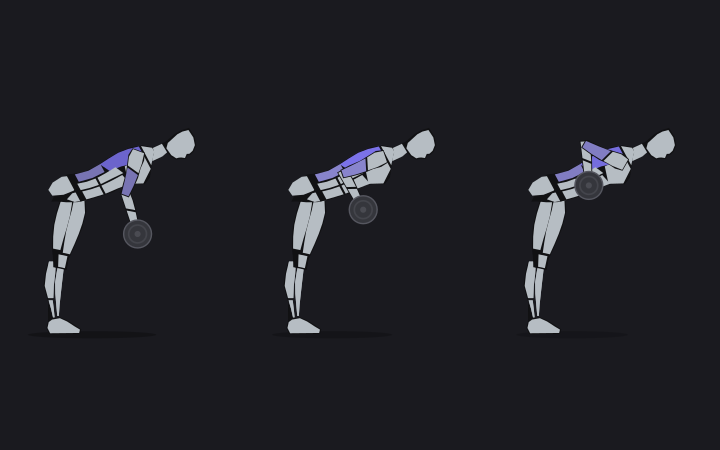
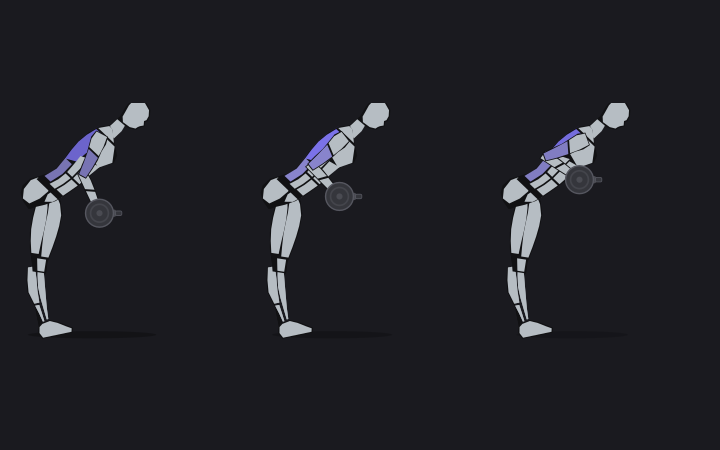
feat(body-demos): Prompt 9b — Phase A gate + pose physics + barbell ends
GATE (Phase A): found and fixed the regression that failed D1 — an
earlier contour-trim text edit matched TWICE and amputated the glute
tail from the pelvis silhouette. Restored with stronger projection
(~9 units behind the lumbar line, under-crease), plus lumbar curve and
chest carry. Master passes D1-D5 next to the front view (gate sheet:
docs/visual-audit/side-rig/master-vs-front.png). Front view untouched.

Pose physics, encoded as rules:
- hipsBack(): the balance rule — hips travel back ~0.4x the shoulders'
  forward travel (whole standing chain leans about the planted ankle).
  Applied to every standing hinge; pinned by tests.
- RDL: knees constant 15deg in every frame (the RDL signature), arms
  hang plumb so the plate tracks the legs, hips counter backward.
- Row: torso locked 55deg, knees 20deg, bar path a straight vertical
  line below the shoulder — below-knee to lower ribs, elbow driving
  past the torso line at the top.
- Bench: lockout vertically above the shoulder pivot (bar path leans
  head-ward on the way up); pad extended beyond the crown.
- Plate ends get a collar + protruding bar stub (barbell, not a disc).

Highlights were already facet-tints (not stickers) and RDL already maps
hamstrings+glutes primary. 23 rig tests including executable acceptance
checks (rigid segments, pinned plates, locked camera, balance, constant
knee angle). Contact sheets regenerated in docs/visual-audit/side-rig/.
[…]

Changed region(s): [[0.0306, 0.2178, 0.275, 0.7467], [0.3667, 0.2178, 0.6111, 0.7467], [0.7028, 0.2178, 0.9472, 0.7467]]

diff --git a/src/lib/bodyRig.ts b/src/lib/bodyRig.ts
@@ -100,6 +100,17 @@ const SIDE_FORE_LEN = Math.hypot(
   SIDE_ANCHORS.hand[1] - SIDE_ANCHORS.elbow[1]
 );
 
+/** Balance rule (pose physics): mass stays over mid-foot, so as the
+ *  torso hinges forward the hips travel BACK — implemented as the whole
+ *  standing chain leaning back about the planted ankle, hips countering
+ *  ~0.4× the shoulders' forward travel. Every standing hinge appends
+ *  this op to every group. */
+function hipsBack(hingeDeg: number): Extract<Op, { kind: "rotate" }> {
+  const fwd = Math.sin((hingeDeg * Math.PI) / 180) * 55.5; // shoulder travel
+  const lean = (Math.asin(Math.min(0.4 * fwd, 30) / 93) * 180) / Math.PI;
+  return { kind: "rotate", deg: -lean, pivot: SIDE_ANCHORS.ankle };
+}
+
 /* Push-up scene constants (final space): where the hands plant and
  * where the tilted plank's toes rest. */
 const PUSHUP_HAND: Pt = [100, 156];
@@ -803,7 +814,7 @@ export const BODY_DEMOS: Record<string, BodyDemo> = {
        * bar path. */
       const G: Op = { kind: "rotate", deg: -90, pivot: [44, 100] };
       const S = SIDE_ANCHORS.shoulder;
-      const H: Pt = [S[0] + lerp(24, 50, e), S[1] + lerp(18, 6, e)];
+      const H: Pt = [S[0] + lerp(24, 50, e), S[1] + lerp(18, 0, e)];
       const arm = aimArm(
         { S, E: SIDE_ANCHORS.elbow, H: SIDE_ANCHORS.hand },
         // out −1: the elbow tucks toward the feet/floor side, the real
@@ -840,7 +851,7 @@ export const BODY_DEMOS: Record<string, BodyDemo> = {
     },
     // Bench pad + legs + floor line, drawn behind the body.
     scene: () =>
-      `<rect x="-60" y="109" width="130" height="7" rx="2.5" fill="${GEAR}"/>` +
+      `<rect x="-64" y="109" width="136" height="7" rx="2.5" fill="${GEAR}"/>` +
       `<line x1="-50" y1="116" x2="-50" y2="170" stroke="${GEAR_DARK}" stroke-width="3.4"/>` +
       `<line x1="56" y1="116" x2="56" y2="170" stroke="${GEAR_DARK}" stroke-width="3.4"/>` +
       `<line x1="-58" y1="171" x2="118" y2="171" stroke="${GEAR_DARK}" stroke-width="1.6"/>`,
@@ -866,16 +877,20 @@ export const BODY_DEMOS: Record<string, BodyDemo> = {
        * past the back line. The arm is aimed in PRE-hinge space (rest
        * anchors) with the hinge composed LAST — same chain pattern as
        * the bench's global rotation. */
-      const HINGE = 62;
+      const HINGE = 55; // constant torso incline, all frames
+      const KNEE = 20; // constant soft knees
+      const LEAN = hipsBack(HINGE); // balance rule: hips back
       const T: Op = { kind: "rotate", deg: HINGE, pivot: SIDE_ANCHORS.hip };
-      const unhinge: Op[] = [
+      const unpose: Op[] = [
+        { kind: "rotate", deg: -LEAN.deg, pivot: LEAN.pivot },
         { kind: "rotate", deg: -HINGE, pivot: SIDE_ANCHORS.hip },
       ];
-      const S = applyToPoint(SIDE_ANCHORS.shoulder, [T]);
-      // Targets in FINAL space: dead hang below the hinged shoulder →
-      // hand at the lower ribs; mapped back to pre-hinge space for IK.
-      const hFinal: Pt = [lerp(S[0] + 1, 74, e), lerp(S[1] + 52.5, 97, e)];
-      const hPre = applyToPoint(hFinal, unhinge);
+      const S = applyToPoint(SIDE_ANCHORS.shoulder, [T, LEAN]);
+      // Bar path: a straight VERTICAL line below the shoulder joint —
+      // below the knee at the bottom, lower ribs at the top with the
+      // elbow driving past the torso line (IK bends it up-back).
+      const hFinal: Pt = [S[0] + 1, lerp(S[1] + 50, S[1] + 26, e)];
+      const hPre = applyToPoint(hFinal, unpose);
       const arm = aimArm(
         {
           S: SIDE_ANCHORS.shoulder,
@@ -892,22 +907,26 @@ export const BODY_DEMOS: Record<string, BodyDemo> = {
         hPre,
         0
       );
-      const leg: Op[] = [{ kind: "rotate", deg: 12, pivot: SIDE_ANCHORS.hip }];
+      const leg: Op[] = [
+        { kind: "rotate", deg: KNEE, pivot: SIDE_ANCHORS.hip },
+        LEAN,
+      ];
       const shank: Op[] = [
-        { kind: "rotate", deg: -12, pivot: SIDE_ANCHORS.knee },
-        { kind: "rotate", deg: 12, pivot: SIDE_ANCHORS.hip },
+        { kind: "rotate", deg: -KNEE, pivot: SIDE_ANCHORS.knee },
+        { kind: "rotate", deg: KNEE, pivot: SIDE_ANCHORS.hip },
+        LEAN,
       ];
       return {
-        head: [T],
-        torso: [T],
-        pelvis: [T],
+        head: [T, LEAN],
+        torso: [T, LEAN],
+        pelvis: [T, LEAN],
         thighL: leg,
         thighR: leg,
         shankL: shank,
         shankR: shank,
-        upperArmL: [...arm.upper, T],
-        foreArmL: [...arm.fore, T],
-        handL: [...arm.fore, T],
+        upperArmL: [...arm.upper, T, LEAN],
+        foreArmL: [...arm.fore, T, LEAN],
+        handL: [...arm.fore, T, LEAN],
       };
     },
     bar: (_e, pose) => {
@@ -938,47 +957,53 @@ export const BODY_DEMOS: Record<string, BodyDemo> = {
        * pre-hinge aiming pattern as the row, but here the hinge itself
        * is the animation. */
       const hinge = lerp(0, 68, e);
+      const KNEE = 15; // constant in every frame — the RDL signature
+      const LEAN = hipsBack(hinge); // balance rule: hips travel back
       const T: Op = { kind: "rotate", deg: hinge, pivot: SIDE_ANCHORS.hip };
-      const unhinge: Op[] = [
+      const unpose: Op[] = [
+        { kind: "rotate", deg: -LEAN.deg, pivot: LEAN.pivot },
         { kind: "rotate", deg: -hinge, pivot: SIDE_ANCHORS.hip },
       ];
-      const S = applyToPoint(SIDE_ANCHORS.shoulder, [T]);
-      const hPre = applyToPoint([S[0] + 1.5, S[1] + 52], unhinge);
+      // Arms hang plumb from the hinged+leaned shoulder — the bar stays
+      // against the legs on the way down.
+      const S = applyToPoint(SIDE_ANCHORS.shoulder, [T, LEAN]);
+      const hPre = applyToPoint([S[0] + 1.2, S[1] + 52], unpose);
       const arm = aimArm(
-          {
-            S: SIDE_ANCHORS.shoulder,
-            E: SIDE_ANCHORS.elbow,
-            H: SIDE_ANCHORS.hand,
-          },
-          solveElbow(
-            SIDE_ANCHORS.shoulder,
-            hPre,
-            SIDE_UPPER_LEN,
-            SIDE_FORE_LEN,
-            -1
-          ),
+        {
+          S: SIDE_ANCHORS.shoulder,
+          E: SIDE_ANCHORS.elbow,
+          H: SIDE_ANCHORS.hand,
+        },
+        solveElbow(
+          SIDE_ANCHORS.shoulder,
           hPre,
-          0
+          SIDE_UPPER_LEN,
+          SIDE_FORE_LEN,
+          -1
         ),
-        soft = lerp(0, 12, e);
+        hPre,
+        0
+      );
       const leg: Op[] = [
-        { kind: "rotate", deg: soft, pivot: SIDE_ANCHORS.hip },
+        { kind: "rotate", deg: KNEE, pivot: SIDE_ANCHORS.hip },
+        LEAN,
       ];
       const shank: Op[] = [
-        { kind: "rotate", deg: -soft, pivot: SIDE_ANCHORS.knee },
-        { kind: "rotate", deg: soft, pivot: SIDE_ANCHORS.hip },
+        { kind: "rotate", deg: -KNEE, pivot: SIDE_ANCHORS.knee },
+        { kind: "rotate", deg: KNEE, pivot: SIDE_ANCHORS.hip },
+        LEAN,
       ];
       return {
-        head: [T],
-        torso: [T],
-        pelvis: [T],
+        head: [T, LEAN],
+        torso: [T, LEAN],
+        pelvis: [T, LEAN],
         thighL: leg,
         thighR: leg,
         shankL: shank,
         shankR: shank,
-        upperArmL: [...arm.upper, T],
-        foreArmL: [...arm.fore, T],
-        handL: [...arm.fore, T],
+        upperArmL: [...arm.upper, T, LEAN],
+        foreArmL: [...arm.fore, T, LEAN],
+        handL: [...arm.fore, T, LEAN],
       };
     },
     bar: (_e, pose) => {
@@ -1363,7 +1388,11 @@ function renderSideDemo(demo: BodyDemo, t: number, effort: number): string {
   const ends = demo.bar?.(e, pose);
   if (ends && demo.equip === "plate-end") {
     const [x, y] = ends[0];
+    // Collar + protruding bar stub behind the disc: reads as a barbell
+    // end, not a floating disc.
     plate =
+      `<rect x="${(x + 7).toFixed(1)}" y="${(y - 2.6).toFixed(1)}" width="5" height="5.2" rx="1.4" fill="${GEAR}"/>` +
+      `<rect x="${(x + 11.4).toFixed(1)}" y="${(y - 1.6).toFixed(1)}" width="4.6" height="3.2" rx="1" fill="${GEAR_DARK}" stroke="#565760" stroke-width="0.6"/>` +
       `<circle cx="${x.toFixed(1)}" cy="${y.toFixed(1)}" r="10" fill="${GEAR_DARK}" stroke="#565760" stroke-width="1"/>` +
       `<circle cx="${x.toFixed(1)}" cy="${y.toFixed(1)}" r="6.4" fill="none" stroke="${GEAR}" stroke-width="1.2" opacity="0.7"/>` +
       `<circle cx="${x.toFixed(1)}" cy="${y.toFixed(1)}" r="2.2" fill="${GEAR}"/>`;

diff --git a/src/lib/__tests__/bodyRig.test.ts b/src/lib/__tests__/bodyRig.test.ts
@@ -193,6 +193,29 @@ describe("renderBodyDemo", () => {
     }
   });
 
+  it("pose physics: hips travel BACK as the RDL hinges (balance rule)", () => {
+    const hipAt = (t: number) =>
+      applyToPoint(
+        SIDE_ANCHORS.hip,
+        BODY_DEMOS["romanian-deadlift"].pose(t).pelvis ?? []
+      )[0];
+    // Mass stays over mid-foot: deep hinge pushes the hip x backward.
+    expect(hipAt(1)).toBeLessThan(hipAt(0) - 5);
+  });
+
+  it("pose physics: RDL knee angle constant in every frame", () => {
+    const kneeAngle = (t: number) => {
+      const pose = BODY_DEMOS["romanian-deadlift"].pose(t);
+      const hip = applyToPoint(SIDE_ANCHORS.hip, pose.thighL ?? []);
+      const knee = applyToPoint(SIDE_ANCHORS.knee, pose.thighL ?? []);
+      const ankle = applyToPoint(SIDE_ANCHORS.ankle, pose.shankL ?? []);
+      const a = Math.atan2(hip[1] - knee[1], hip[0] - knee[0]);
+      const b = Math.atan2(ankle[1] - knee[1], ankle[0] - knee[0]);
+      return ((a - b) * 180) / Math.PI;
+    };
+    expect(Math.abs(kneeAngle(1) - kneeAngle(0))).toBeLessThan(0.5);
+  });
+
   it("rig acceptance: camera and ground locked across an exercise", () => {
     for (const id of ["bench-press", "barbell-row", "romanian-deadlift"]) {
       const vb = (t: number) =>

diff --git a/src/lib/bodySideData.ts b/src/lib/bodySideData.ts
@@ -136,17 +136,17 @@ const TORSO_B: C = [
   [44, 37],
   [54, 35.8],
   [64, 36.4],
-  [74, 37.4],
-  [82, 37],
-  [90, 34.4],
-  [94, 32.9],
+  [74, 38],
+  [82, 37.8],
+  [90, 34.6],
+  [94, 33.1],
 ];
 const TORSO_F: C = [
   [31, 48.5],
   [33.5, 51],
   [38, 57.5],
-  [42, 62.8],
-  [47.5, 65.2],
+  [42, 63.4],
+  [47.5, 65.4],
   [53.5, 61.8],
   [60, 59.2],
   [70, 59.6],
@@ -160,8 +160,12 @@ const TORSO_F: C = [
  * upper torso at the lumbar joint (y 86-94). */
 const PELV_B: C = [
   [86, 35.9],
-  [90, 34.4],
-  [94, 32.9],
+  [90, 33.8],
+  [97, 29.8],
+  [104, 29.2],
+  [109, 31.8],
+  [112, 36.8],
+  [113.5, 43.8],
 ];
 const PELV_F: C = [
   [86, 56.6],
@@ -334,11 +338,11 @@ export const SIDE_PIECES: SidePiece[] = [
           [43.6, 90],
           [45.4, 94.6],
           [44.6, 102.4],
-          [41.4, 109.8],
-          [36.4, 110.4],
-          [33.2, 105.2],
-          [32.6, 97.6],
-          [34.2, 93.4],
+          [41.6, 110.2],
+          [35.8, 110.8],
+          [31.6, 105.4],
+          [30.8, 97.4],
+          [33, 92.8],
         ],
       },
       {
